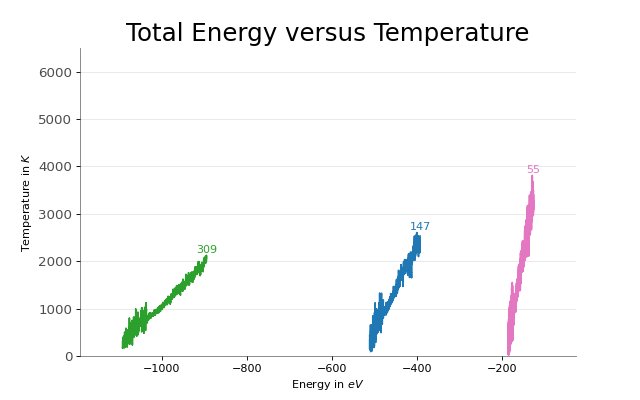
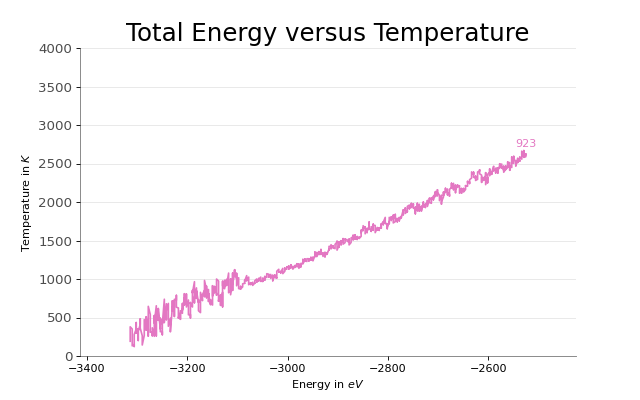
f

diff --git a/milestones/07/ovito/plot_heat_capacity_vs_cluster_size.py b/milestones/07/ovito/plot_heat_capacity_vs_cluster_size.py
@@ -5,30 +5,52 @@ import tikzplotlib
 
 # Prepare data
 labels = [r"$E_\mathrm{total}$", r"Temperature}"]
-headers = ["Epot", "Ekin", "Etotal", "Temperature"]
+headers = ["Etotal", "Temperature"]
 
 # Import Data
-num = "147"
-df = pd.read_csv('energy_' + num + '.csv', header=None, sep="\t")
-df.columns = headers
+numbers = ["55"]
+# numbers = ["55", "147", "309", "561", "923", "1415", "2057", "2869"]
+# numbers = ["3871", "5083", "6525", "8217", "10179", "12431", "14993", "17885", "21127", "24739", "28741"]
+# numbers = ["55", "147", "309", "561", "923", "1415", "2057", "2869", "3871",
+#            "5083", "6525", "8217", "10179", "12431", "14993", "17885",
+#            "21127", "24739", "28741"]
+
+dfs = [pd.read_csv('energy_' + num + '.csv', header=None, sep="\t", usecols=[2, 3]) for num in numbers]
+for df in dfs:
+    # cut away the first
+    df.columns = headers
+
+# Calculate Heat Capacities
+for df in dfs:
+    hc = [0]
+    for i in range(1, len(df)):
+        hc.append((df[headers[0]].iloc[i] - df[headers[0]].iloc[i-1]) /
+                  (df[headers[1]].iloc[i] - df[headers[1]].iloc[i-1]))
+        if round(hc[-1], 5) != 0:
+            print(hc[-1], df["Temperature"].iloc[i])
+    df.insert(2, "Heat Capacities", hc)
+# Remove rows where HC is 0
+dfs = [df[df["Heat Capacities"].round(5) != 0] for df in dfs]
 
 # Draw Plot
-mycolors = ['tab:pink', 'tab:blue', 'tab:green']
-# ['tab:orange', 'tab:brown', 'tab:grey', 'tab:red',
-# 'tab:olive', 'deeppink', 'steelblue', 'firebrick', 'mediumseagreen']
+mycolors = ['tab:pink', 'tab:blue', 'tab:green', 'tab:orange',
+            'tab:brown', 'tab:grey', 'tab:red', 'tab:olive',
+            'deeppink', 'steelblue', 'firebrick', 'mediumseagreen']
 
 plt.figure(figsize=(8, 5), dpi=80)
 
-plt.plot(df[headers[2]], df[headers[3]], color=mycolors[1], label=labels[0])
+for i, df in enumerate(dfs):
+    plt.plot(df[headers[1]], df["Heat Capacities"], "bo", color=mycolors[i % len(mycolors)], label=numbers[i])
+    # plt.text(df["Heat Capacities"].iloc[-1], max(df["Heat Capacities"]) + 50, numbers[i], horizontalalignment='center', color=mycolors[i % len(mycolors)])
 
 # Decoration
-plt.xlim(-550, -300)
-plt.ylim(0, 4000)
-plt.xlabel(r'Energy in $eV$')
-plt.ylabel(r'Temperature in $K$')
+plt.xlim(min(dfs[-1]["Temperature"]) - 100, max(dfs[0]["Temperature"]) + 100)
+plt.ylim(min(dfs[-1]["Heat Capacities"]) - 0.25, max(dfs[0]["Heat Capacities"]) + 0.25)
+plt.xlabel(r'Temperature in $K$')
+plt.ylabel(r'Heat Capacity in $\frac{eV}{K}$')
 plt.yticks(fontsize=12, alpha=.7)
-plt.title("Total Energy versus Temperature " + num + " Atoms", fontsize=22)
-matplotx.line_labels()
+plt.title("Temperature versus Heat Capacity", fontsize=22)
+# matplotx.line_labels()
 
 # Plot grid behind graphs
 plt.grid(axis='y', alpha=.3)
@@ -39,8 +61,8 @@ plt.gca().spines["bottom"].set_alpha(0.5)
 plt.gca().spines["right"].set_alpha(0.0)
 plt.gca().spines["left"].set_alpha(0.5)
 
-path = r"E_vs_T_" + num
-tikzplotlib.save(path + ".tex")
+path = r"T_vs_C"
+# tikzplotlib.save(path + ".tex")
 plt.savefig(path + ".png")
 
 plt.show()  # clears the plot

diff --git a/milestones/07/ovito/plot_energy_vs_temp.py b/milestones/07/ovito/plot_energy_vs_temp.py
@@ -8,10 +8,13 @@ labels = [r"$E_\mathrm{total}$", r"Temperature}"]
 headers = ["Etotal", "Temperature"]
 
 # Import Data
-numbers = ["55", "147", "309"]
-#numbers = ["55", "147", "309", "561", "923", "1415", "2057", "2869", "3871",
-#           "5083", "6525", "8217", "10179", "12431", "14993", "17885",
-#           "21127", "24739", "28741"]
+numbers = ["923"]
+# numbers = ["55", "147", "309", "561", "923", "1415", "2057", "2869"]
+# numbers = ["3871", "5083", "6525", "8217", "10179", "12431", "14993", "17885", "21127", "24739", "28741"]
+# numbers = ["55", "147", "309", "561", "923", "1415", "2057", "2869", "3871",
+#            "5083", "6525", "8217", "10179", "12431", "14993", "17885",
+#            "21127", "24739", "28741"]
+
 dfs = [pd.read_csv('energy_' + num + '.csv', header=None, sep="\t", usecols=[2, 3]) for num in numbers]
 for df in dfs:
     # cut away the first
@@ -30,7 +33,7 @@ for i, df in enumerate(dfs):
 
 # Decoration
 plt.xlim(min(dfs[-1][headers[0]]) - 100, max(dfs[0][headers[0]]) + 100)
-plt.ylim(0, 6500)
+plt.ylim(0, 4000)
 plt.ylabel(r'Temperature in $K$')
 plt.xlabel(r'Energy in $eV$')
 plt.yticks(fontsize=12, alpha=.7)

diff --git a/milestones/07/ovito/plot_latent_heat_vs_cluster_size.py b/milestones/07/ovito/plot_latent_heat_vs_cluster_size.py
@@ -39,7 +39,7 @@ plt.gca().spines["bottom"].set_alpha(0.5)
 plt.gca().spines["right"].set_alpha(0.0)
 plt.gca().spines["left"].set_alpha(0.5)
 
-path = r"E_vs_T_" + num
+path = r"LH_vs_N"
 tikzplotlib.save(path + ".tex")
 plt.savefig(path + ".png")
 

diff --git a/milestones/07/ovito/plot_melting_point_vs_cluster_size.py b/milestones/07/ovito/plot_melting_point_vs_cluster_size.py
@@ -39,7 +39,7 @@ plt.gca().spines["bottom"].set_alpha(0.5)
 plt.gca().spines["right"].set_alpha(0.0)
 plt.gca().spines["left"].set_alpha(0.5)
 
-path = r"E_vs_T_" + num
+path = r"MP_vs_N"
 tikzplotlib.save(path + ".tex")
 plt.savefig(path + ".png")
 
